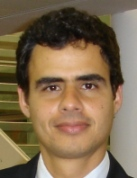
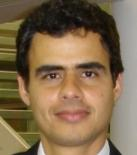
ajeitando as imagens

diff --git a/cbsoft_committe.md b/cbsoft_committe.md
@@ -360,7 +360,59 @@ title: CBSOFT 2019 Committee
 ---
 
 ### SAST'19:
- - TBD
+
+<div class="container">
+	<div class="row">
+		<div class="col-lg-3 col-sm-6">
+            <div class="card2 hovercard">
+                <div class="cardheader">
+                </div>
+                <div class="avatar">
+                    <img src="assets/images/fotos_committee/adenilso.gif">
+                </div>
+                <div class="info">
+                    <div class="title">Adenilso Simão</div>
+                    <div class="desc">ICMC/USP</div>
+                </div>
+               <div class="bottom">
+                    <a target="_blank" href="http://lattes.cnpq.br/9836776931160228">
+                        <img style="height:30px;" src="assets/images/lattes.png" />
+                    </a>
+                    <a target="_blank" href="mailto:adenilso@icmc.usp.br">
+                        <img style="height:30px;" src="assets/images/email.png" />
+                    </a>
+                    <a target="_blank" href="http://www.icmc.usp.br/~adenilso/">
+                        <img style="height:30px;" src="assets/images/site.png" />
+                    </a>
+                </div>
+            </div>
+        </div>
+        <div class="col-lg-3 col-sm-6">
+            <div class="card2 hovercard">
+                <div class="cardheader">
+                </div>
+                <div class="avatar">
+                    <img src="assets/images/fotos_committee/elder.gif">
+                </div>
+                <div class="info">
+                    <div class="title">Elder Macedo Rodrigues</div>
+                    <div class="desc">UNIPAMPA</div>
+                </div>
+               <div class="bottom">
+                    <a target="_blank" href="http://lattes.cnpq.br/5733269259864085">
+                        <img style="height:30px;" src="assets/images/lattes.png" />
+                    </a>
+                    <a target="_blank" href="mailto:elderrodrigues@unipampa.edu.br">
+                        <img style="height:30px;" src="assets/images/email.png" />
+                    </a>
+                    <a target="_blank" href="http://novoportal.unipampa.edu.br/alegrete/docente/17670/dados-gerais">
+                        <img style="height:30px;" src="assets/images/site.png" />
+                    </a>
+                </div>
+            </div>
+        </div>
+	</div>
+</div>
 
 ---
 
@@ -418,6 +470,8 @@ title: CBSOFT 2019 Committee
         </div>
 	</div>
 </div>
+
+---
  
 ### CBSoft'19 Tools Session:
 
@@ -474,6 +528,8 @@ title: CBSOFT 2019 Committee
 	</div>
 </div>
 
+---
+
 ### CBSoft'19 Industry Track:
 
 <div class="container">
@@ -507,8 +563,178 @@ title: CBSOFT 2019 Committee
 	</div>
 </div>
 
+---
+
 ### CBSoft'19 Tutorials:
 - TBD
 
+---
+
 ### CBSoft'19 Workshops:
 - TBD
+
+---
+
+### Web Chair
+
+<div class="container">
+	<div class="row">
+		<div class="col-lg-3 col-sm-6">
+            <div class="card2 hovercard">
+                <div class="cardheader">
+                </div>
+                <div class="avatar">
+                    <img src="assets/images/fotos_committee/railana.png">
+                </div>
+                <div class="info">
+                    <div class="title">Railana Santana</div>
+                    <div class="desc">
+                    <a target="_blank" href="https://www.ufba.br/">UFBA</a>
+                    </div>
+                </div>
+               <div class="bottom">
+                    <a target="_blank" href="http://lattes.cnpq.br/9613056483292884">
+                        <img style="height:30px;" src="assets/images/lattes.png" />
+                    </a>
+                    <a target="_blank" href="mailto:mailto:railanassantana@gmail.com">
+                        <img style="height:30px;" src="assets/images/email.png" />
+                    </a>
+                    <a target="_blank" href="https://github.com/Railana">
+                        <img style="height:30px;" src="assets/images/site.png" />
+                    </a>
+                </div>
+            </div>
+        </div>
+        <div class="col-lg-3 col-sm-6">
+            <div class="card2 hovercard">
+                <div class="cardheader">
+                </div>
+                <div class="avatar">
+                    <img src="assets/images/fotos_committee/tassio.jpg">
+                </div>
+                <div class="info">
+                    <div class="title">Tássio Virgínio</div>
+                    <div class="desc">
+                        <a target="_blank" href="https://www.ufba.br/">UFBA</a>
+                    </div>
+                </div>
+                <div class="bottom">
+                    <a target="_blank" href="http://lattes.cnpq.br/0517470966104640">
+                        <img style="height:30px;" src="assets/images/lattes.png" />
+                    </a>
+                    <a target="_blank" href="mailto:mailto:tassiovirginio@gmail.com">
+                        <img style="height:30px;" src="assets/images/email.png" />
+                    </a>
+                    <a target="_blank" href="https://tassiovirginio.com">
+                        <img style="height:30px;" src="assets/images/site.png" />
+                    </a>
+                </div>
+            </div>
+        </div>
+	</div>
+</div>
+
+---
+
+### Social Media Chairs 
+
+<div class="container">
+	<div class="row">
+		<div class="col-lg-3 col-sm-6">
+            <div class="card2 hovercard">
+                <div class="cardheader">
+                </div>
+                <div class="avatar">
+                    <img src="assets/images/fotos_committee/nildo.png">
+                </div>
+                <div class="info">
+                    <div class="title">Nildo Junior</div>
+                    <div class="desc">
+                    <a target="_blank" href="https://www.ufba.br/">UFBA</a>
+                    </div>
+                </div>
+               <div class="bottom">
+                    <a target="_blank" href="http://lattes.cnpq.br/3857937888187398">
+                        <img style="height:30px;" src="assets/images/lattes.png" />
+                    </a>
+                    <a target="_blank" href="mailto:nildocsjr@gmail.com">
+                        <img style="height:30px;" src="assets/images/email.png" />
+                    </a>
+                    <a target="_blank" href="#">
+                        <img style="height:30px;" src="assets/images/site.png" />
+                    </a>
+                </div>
+            </div>
+        </div>
+	</div>
+</div>
+
+---
+
+### Proceedings Chair 
+
+<div class="container">
+	<div class="row">
+		<div class="col-lg-3 col-sm-6">
+            <div class="card2 hovercard">
+                <div class="cardheader">
+                </div>
+                <div class="avatar">
+                    <img src="assets/images/fotos_committee/rodrigo_rocha.gif">
+                </div>
+                <div class="info">
+                    <div class="title">Rodrigo Rocha</div>
+                    <div class="desc">
+                    <a target="_blank" href="https://www.ufba.br/">UFBA</a>
+                    </div>
+                </div>
+               <div class="bottom">
+                    <a target="_blank" href="http://lattes.cnpq.br/7697794806460975">
+                        <img style="height:30px;" src="assets/images/lattes.png" />
+                    </a>
+                    <a target="_blank" href="mailto:mailto:rodrigorgs@gmail.com">
+                        <img style="height:30px;" src="assets/images/email.png" />
+                    </a>
+                    <a target="_blank" href="https://rodrigorgs.github.io/">
+                        <img style="height:30px;" src="assets/images/site.png" />
+                    </a>
+                </div>
+            </div>
+        </div>
+	</div>
+</div>
+
+---
+
+### Student Volunteers Chair 
+
+<div class="container">
+	<div class="row">
+		<div class="col-lg-3 col-sm-6">
+            <div class="card2 hovercard">
+                <div class="cardheader">
+                </div>
+                <div class="avatar">
+                    <img src="assets/images/fotos_committee/larisa.png">
+                </div>
+                <div class="info">
+                    <div class="title">Larissa Rocha</div>
+                    <div class="desc">
+                    <a target="_blank" href="https://www.ufba.br/">UFBA</a>
+                    </div>
+                </div>
+               <div class="bottom">
+                    <a target="_blank" href="http://lattes.cnpq.br/5750570352089990">
+                        <img style="height:30px;" src="assets/images/lattes.png" />
+                    </a>
+                    <a target="_blank" href="mailto:mailto:lari.rsoares@gmail.com">
+                        <img style="height:30px;" src="assets/images/email.png" />
+                    </a>
+                    <a target="_blank" href="#">
+                        <img style="height:30px;" src="assets/images/site.png" />
+                    </a>
+                </div>
+            </div>
+        </div>
+	</div>
+</div>
